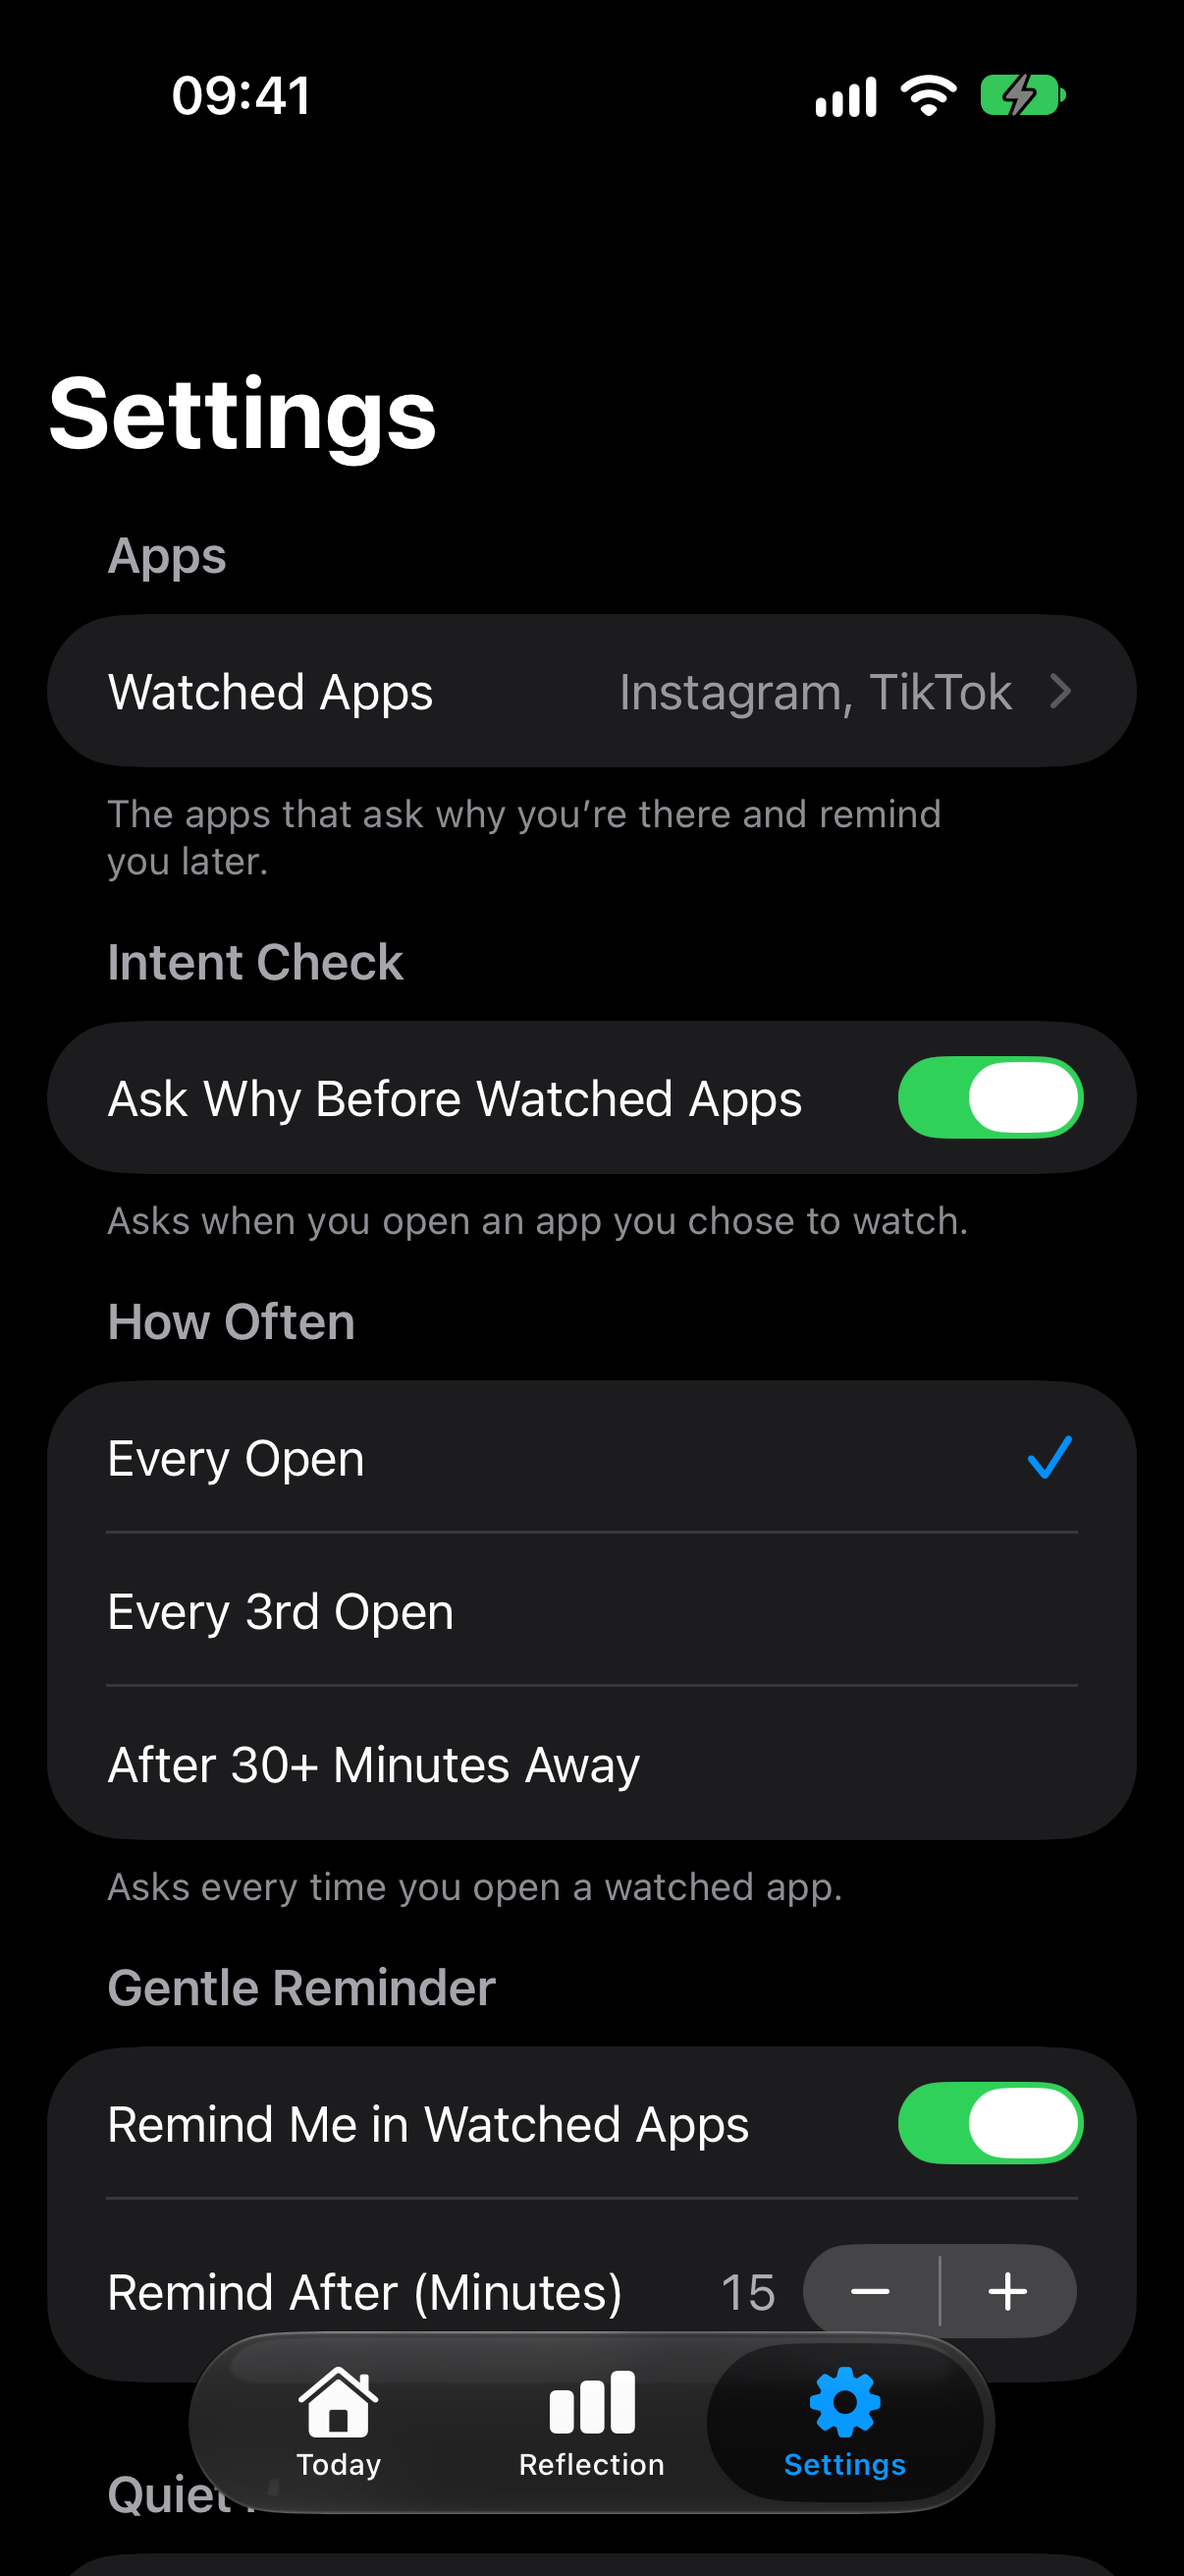
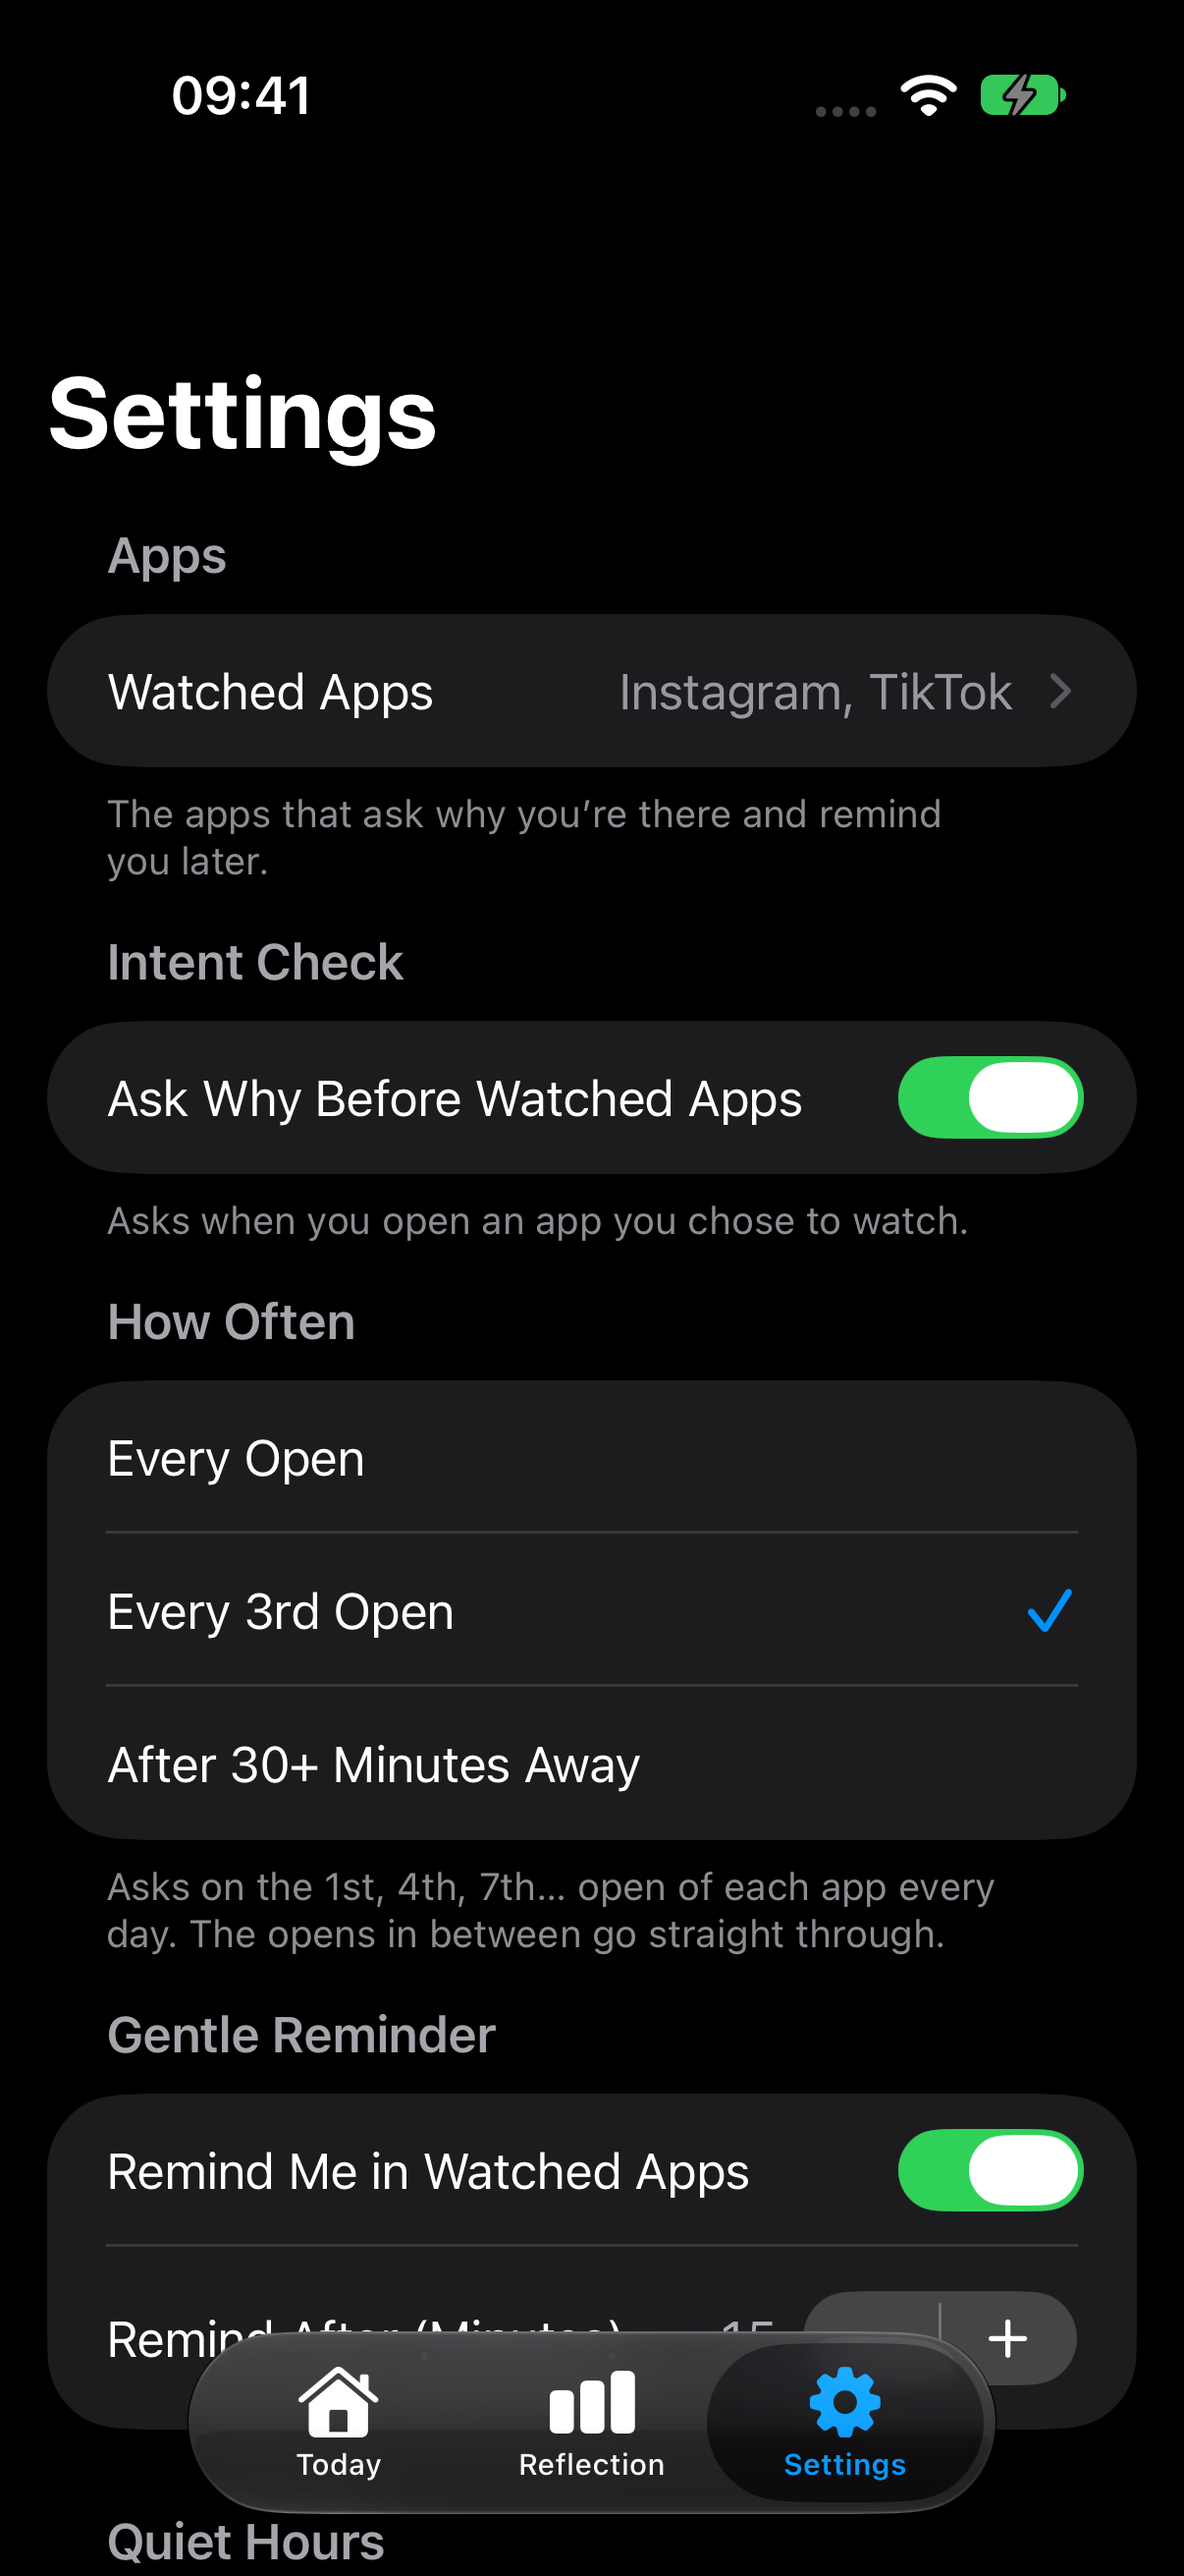
fix: keep Every 3rd Open as the default frequency, as in the prototype
The How Often footer still explains the rule; the test plan has the facilitator switch to
Every Open so T2-T4 always get the question.

diff --git a/Core/Sources/WAIHCore/Settings.swift b/Core/Sources/WAIHCore/Settings.swift
@@ -32,8 +32,8 @@ public struct WAIHSettings: Codable, Equatable, Sendable {
     public static let awayThreshold: TimeInterval = 30 * 60
 
     public var askBeforeWatchedApps = true
-    /// Every open by default: a new user who has just set up an automation expects it to ask each time.
-    public var frequency: PromptFrequency = .everyOpen
+    /// Every 3rd open by default, as in the prototype; the How Often footer explains the opens in between.
+    public var frequency: PromptFrequency = .everyThirdOpen
     public var remindInWatchedApps = true
     public var remindAfterMinutes = 15
     public var watchedAppIDs: [String] = ["instagram", "tiktok"]

diff --git a/Core/Tests/WAIHCoreTests/SettingsFormatTests.swift b/Core/Tests/WAIHCoreTests/SettingsFormatTests.swift
@@ -5,7 +5,7 @@ final class SettingsFormatTests: XCTestCase {
     func testDefaultsMatchPrototype() {
         let settings = WAIHSettings()
         XCTAssertTrue(settings.askBeforeWatchedApps)
-        XCTAssertEqual(settings.frequency, .everyOpen, "a new user expects to be asked on every open")
+        XCTAssertEqual(settings.frequency, .everyThirdOpen)
         XCTAssertTrue(settings.remindInWatchedApps)
         XCTAssertEqual(settings.remindAfterMinutes, 15)
         XCTAssertEqual(settings.watchedSummary, "Instagram, TikTok")

diff --git a/docs/design/usability-test/inspection.md b/docs/design/usability-test/inspection.md
@@ -15,7 +15,7 @@
 | 1 | The test can't run on the TestFlight build. Today and Reflection stay empty for a new participant, sample data needs a launch argument, and data can't be reset between participants. T6 can't be done. | T6, all | — (test readiness) | 4 critical | **Fixed** |
 | 2 | The Intent Check has no way to *not* go into the app, so the storyboard's ending ("Maybe not.") has no button. "Skip for Now" looks like the way out but opens Instagram. | T3 | 3 User control and freedom; 2 Match with the real world | 3 serious | **Fixed** |
 | 3 | Nothing shows whether setup worked. The "Finish Setup" card disappears after the first pickup ever, and Watched Apps shows only checkmarks. The only way to check is to open Instagram. | T1 | 1 Visibility of system status | 3 serious | **Fixed** |
-| 4 | The default "Every 3rd Open" lets the 2nd and 3rd opens through without a word. Right after setup it looks broken, and in a test session it stops T2–T4 from asking. The rule is explained nowhere in the app. | T1, T2–T4, T7 | 1 Visibility; 6 Recognition rather than recall | 3 serious | **Fixed** |
+| 4 | The default "Every 3rd Open" lets the 2nd and 3rd opens through without a word. Right after setup it looks broken, and in a test session it stops T2–T4 from asking. The rule is explained nowhere in the app. | T1, T2–T4, T7 | 1 Visibility; 6 Recognition rather than recall | 3 serious | **Partly fixed**: rule explained; default kept to match the prototype |
 | 5 | Quiet hours are fixed at 10 PM–7 AM. Maya needs "reminders she can customize", and T8 (11 PM–8 AM) can't be done. | T8 | 7 Flexibility and efficiency | 3 serious | **Fixed** |
 | 6 | The Daily Pickups chart labels only the busiest day, so no other day's count can be read. VoiceOver reads only the average. | T6 | 6 Recognition rather than recall; accessibility | 3 serious | **Fixed** |
 | 7 | Watched Apps sits under "Gentle Reminder", but it also decides which apps get the Intent Check. | T9 | 4 Consistency; 2 Match | 2 minor | **Fixed** |
@@ -35,7 +35,7 @@
 1. **Sample data and reset (issue 1).** Settings → Data has **Load Sample Week** and **Erase All Data and Settings**, and each asks for confirmation first. The sample is the week from the prototype (37 pickups today, 62% intentional, down 8% on last week). Erasing deletes every pickup and pending reminder and restores the default settings, the same as a fresh install.
 2. **Never Mind (issue 2).** The Intent Check has **Skip for Now** and **Never Mind** side by side under Continue. Never Mind stays out of the app, shows "Nice. Instagram can wait.", and records the pickup as "Changed Your Mind": no session, no reminders, and it doesn't count as mindless. VoiceOver hints say where each button leads.
 3. **Setup status (issues 3, 9).** The setup guide starts with a "Your Watched Apps" card, and each watched app in Watched Apps has a status line: "Working · last opened today at 9:41 AM", or "No opens yet. Set up its automation." A sixth step was added: "Open Instagram to try it." A preview now ends with "That was a preview. Nothing was saved."
-4. **Every Open by default (issue 4).** New installs ask on every open, and a footer under How Often explains the selected rule. Existing settings are kept. If the group prefers the prototype's default, it is one line in `Core/Sources/WAIHCore/Settings.swift`.
+4. **How Often explained (issue 4).** A footer under How Often explains the selected rule, e.g. "Asks on the 1st, 4th, 7th… open of each app every day. The opens in between go straight through." The group kept the prototype's default, Every 3rd Open. For the test sessions, the facilitator switches to Every Open so that every task gets the question. Ask in the debrief whether people expected to be asked every time.
 5. **Adjustable quiet hours (issue 5).** When Pause All Prompts is on, From and To menus appear, and reminders already planned are re-planned when the hours change.
 6. **Readable chart (issue 6).** Tapping a bar shows that day's count, and tapping it again goes back to the busiest day. A caption says that bars can be tapped. VoiceOver reads each day as "Monday, 30 pickups".
 7. **Settings order (issue 7).** Watched Apps has its own "Apps" section at the top of Settings.
@@ -50,7 +50,7 @@ For each step of the correct path: **Q1** Will the user try to achieve this effe
 | T1 Set up | Today → Show Me How | Y | Y | Y | Y | The card is the most prominent thing on an empty Today ([before](screens/before/t1-1-first-launch.jpg)). |
 | | Read the guide, tap Open Shortcuts | Y | Y | Y | Y | |
 | | Build the automation in Shortcuts | Y | ? | ? | ? | The steps must be recalled in another app (issue 10). The simulator can't create automations, so this step needs real users. |
-| | Check that it works | **N → Y** | **N → Y** | — | **N → Y** | Before, nothing showed whether setup worked, and with Every 3rd Open the next two opens didn't ask (issues 3, 4). After: step 6 and the status lines ([after](screens/after/t1-5-watched-apps-after-first-open.jpg)). |
+| | Check that it works | **N → Y** | **N → Y** | — | **N → Y** | Before, nothing showed whether setup worked, and with Every 3rd Open the next two opens didn't ask (issues 3, 4). After: step 6, the status lines and the How Often footer ([after](screens/after/t1-5-watched-apps-after-first-open.jpg)). |
 | T2 Reply to Sam | Pick Messages | Y | Y | Y | Y | Large tiles, a checkmark, and a haptic tap ([before](screens/before/t2-2-reason-selected.jpg)). |
 | | Continue | Y | Y | Y | Y | The disabled Continue barely shows until a reason is picked (issue 15), but it turns blue as soon as one is. |
 | T5 Wrap up | Tap the reminder → I'm Done for Now | Y | Y | Y | Y | Today and a "Nice work" banner follow ([before](screens/before/t5-2-after-done.jpg)). |

diff --git a/docs/design/usability-test/test-plan.md b/docs/design/usability-test/test-plan.md
@@ -41,7 +41,7 @@ The order above (T1, T2, T5, T3, T4, T6, T7–T9) matters. T2 starts the session
 
 1. Test iPhone on iOS 26 or later, with the latest TestFlight build (public link https://testflight.apple.com/join/utJrrru3). Install Instagram and YouTube, and log Instagram into a **test account**, never the participant's.
 2. In Shortcuts → Automation, delete every "Ask Why I'm Here" and "Mark App Closed" automation left from the last participant.
-3. In Why Am I Here?, go to Settings → Erase All Data and Settings. Then set Remind After to **5** minutes so the T5 reminder arrives during the session. Allow notifications for the app, and turn Focus / Do Not Disturb off.
+3. In Why Am I Here?, go to Settings → Erase All Data and Settings. Then set How Often to **Every Open** (the default, Every 3rd Open, would let T2–T4 through without asking) and Remind After to **5** minutes so the T5 reminder arrives during the session. Allow notifications for the app, and turn Focus / Do Not Disturb off.
 4. Start the screen recording (Control Center), with the microphone on if the participant agrees.
 5. Fallback: if T1 runs out of time, the facilitator builds the Instagram "Is Opened" automation (rehearse it; it takes about 1 minute), so T2 onward can still run. Write T1 down as failed.
 6. Before T6: Settings → Load Sample Week. Say "I'm loading a week of sample data" and don't show the Settings screen. The sample week depends on today's date, so write the correct T6 answers (busiest day and its count, Monday's count) on your sheet first. Messages is always the top reason.

diff --git a/README.md b/README.md
@@ -71,8 +71,8 @@ To see the flow without setting anything up, use **Settings → Watched Apps →
 | Setting | Behavior |
 | --- | --- |
 | Ask Why Before Watched Apps | Off: nothing is asked, but pickups and screen time are still counted. |
-| How Often → Every Open | Asks every time. Default. |
-| How Often → Every 3rd Open | Asks on the 1st, 4th, 7th… open of each app per day. |
+| How Often → Every Open | Asks every time. |
+| How Often → Every 3rd Open | Asks on the 1st, 4th, 7th… open of each app per day. Default. |
 | How Often → After 30+ Minutes Away | Asks only if you last left the app at least 30 minutes ago. |
 | Remind Me in Watched Apps | Sends a reminder every N minutes of a session, up to four times. |
 | Remind After (Minutes) | 5 to 60, in steps of 5. Default 15. |

diff --git a/CHANGELOG.md b/CHANGELOG.md
@@ -16,7 +16,7 @@ All notable changes to this project are documented here. The format follows [Kee
 
 ### Changed
 
-- New installs ask on every open; the How Often footer explains the selected rule.
+- The How Often footer explains the selected rule (default stays Every 3rd Open, as in the prototype).
 - Watched Apps moved to its own section at the top of Settings.
 - Previews end with "That was a preview. Nothing was saved."
 - Reason names shrink slightly instead of being cut off.
